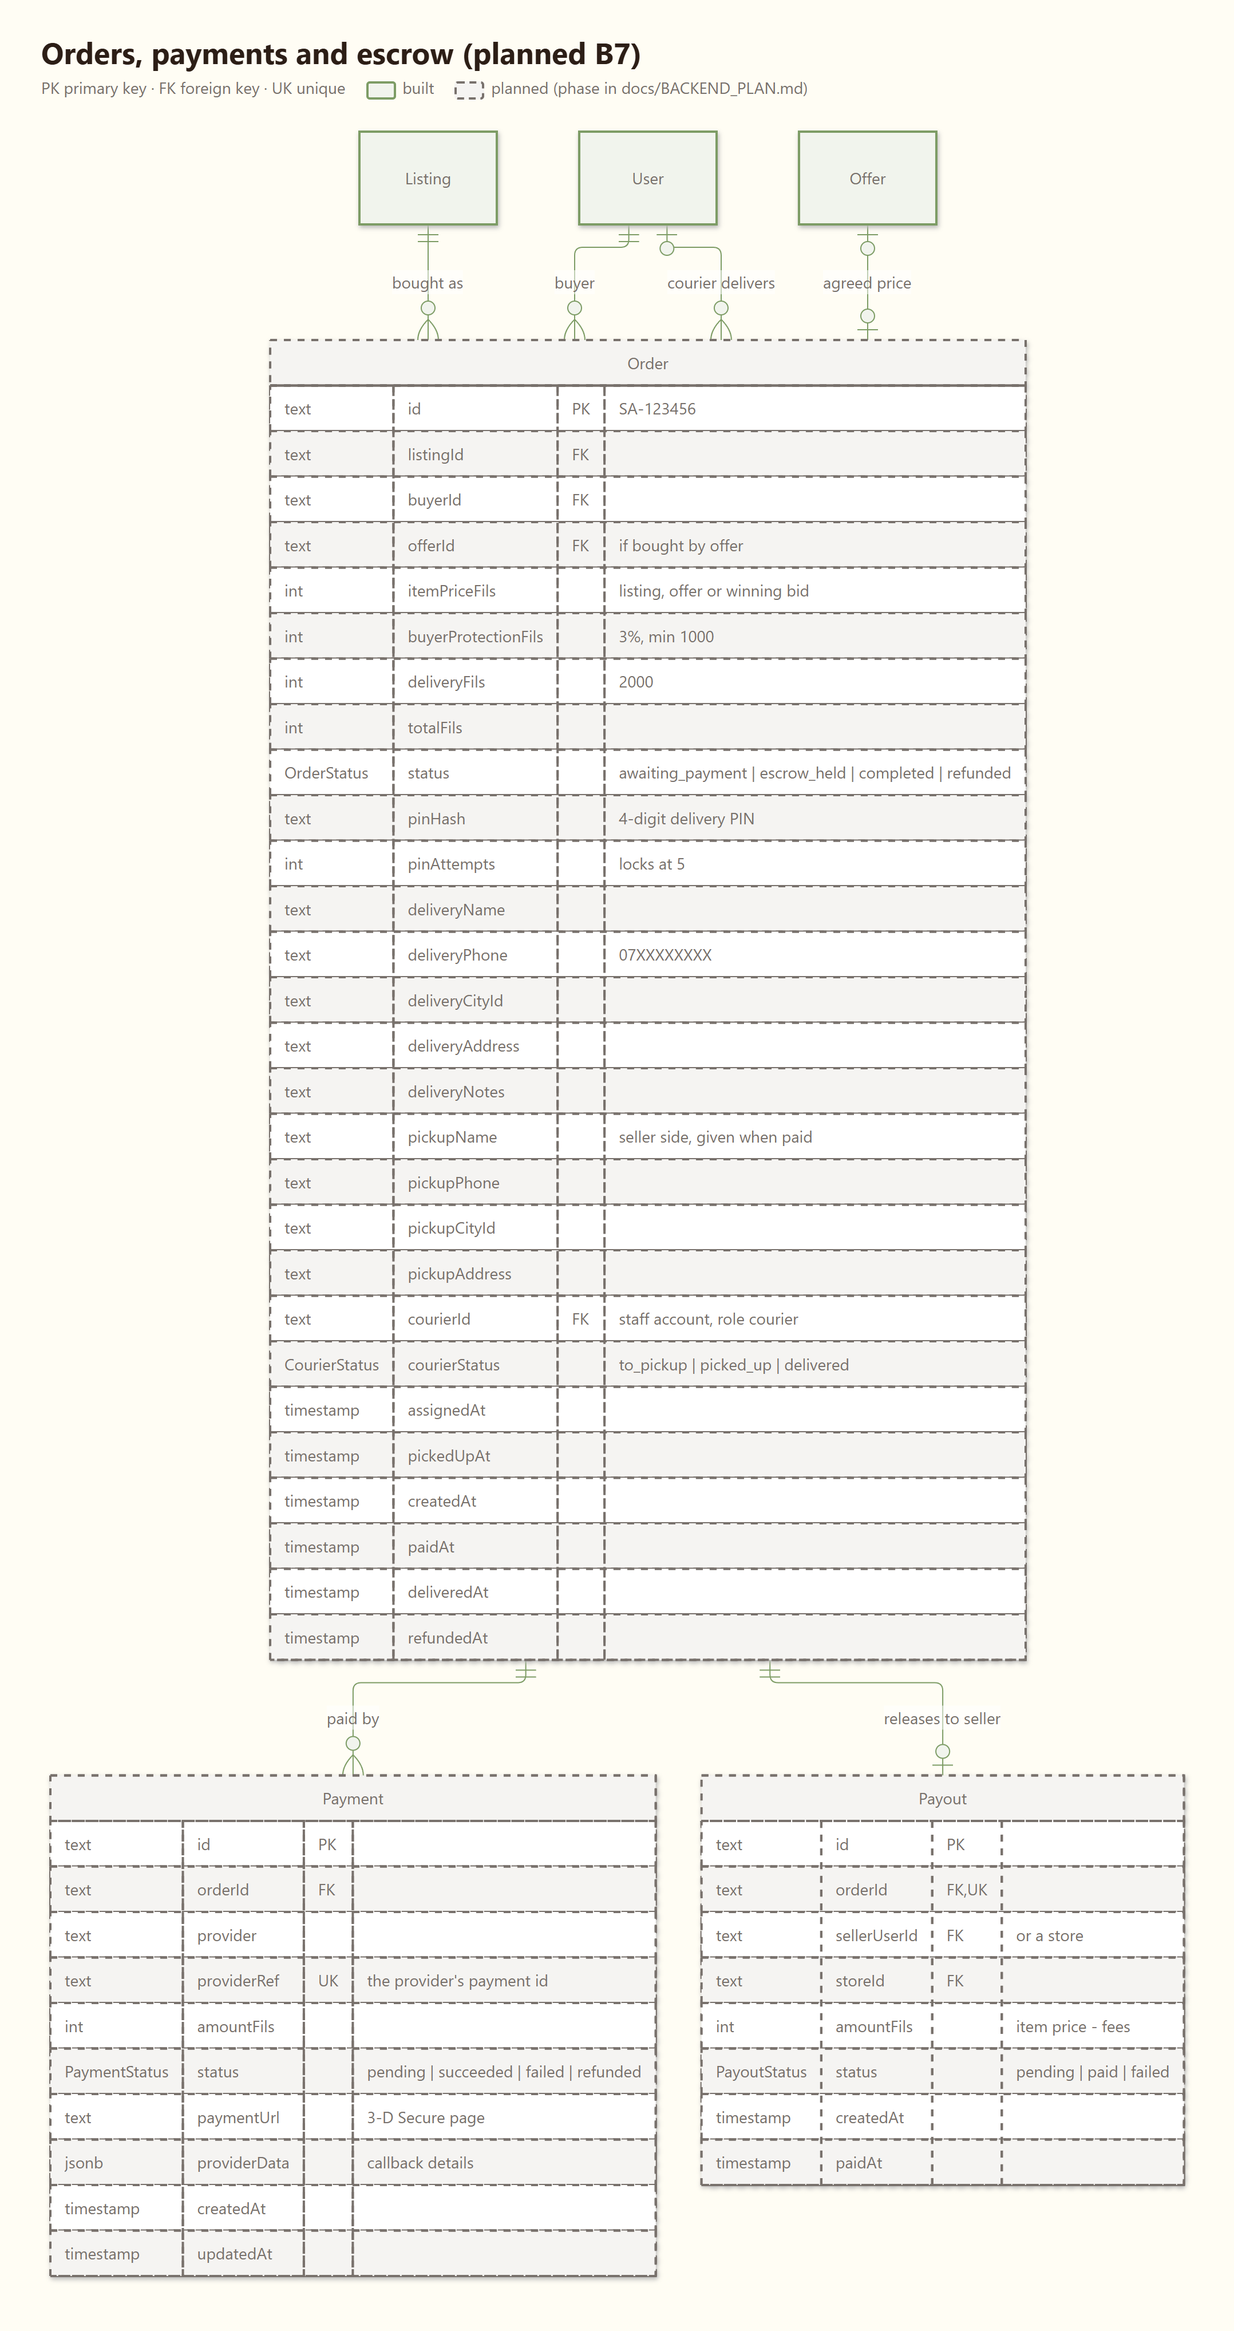
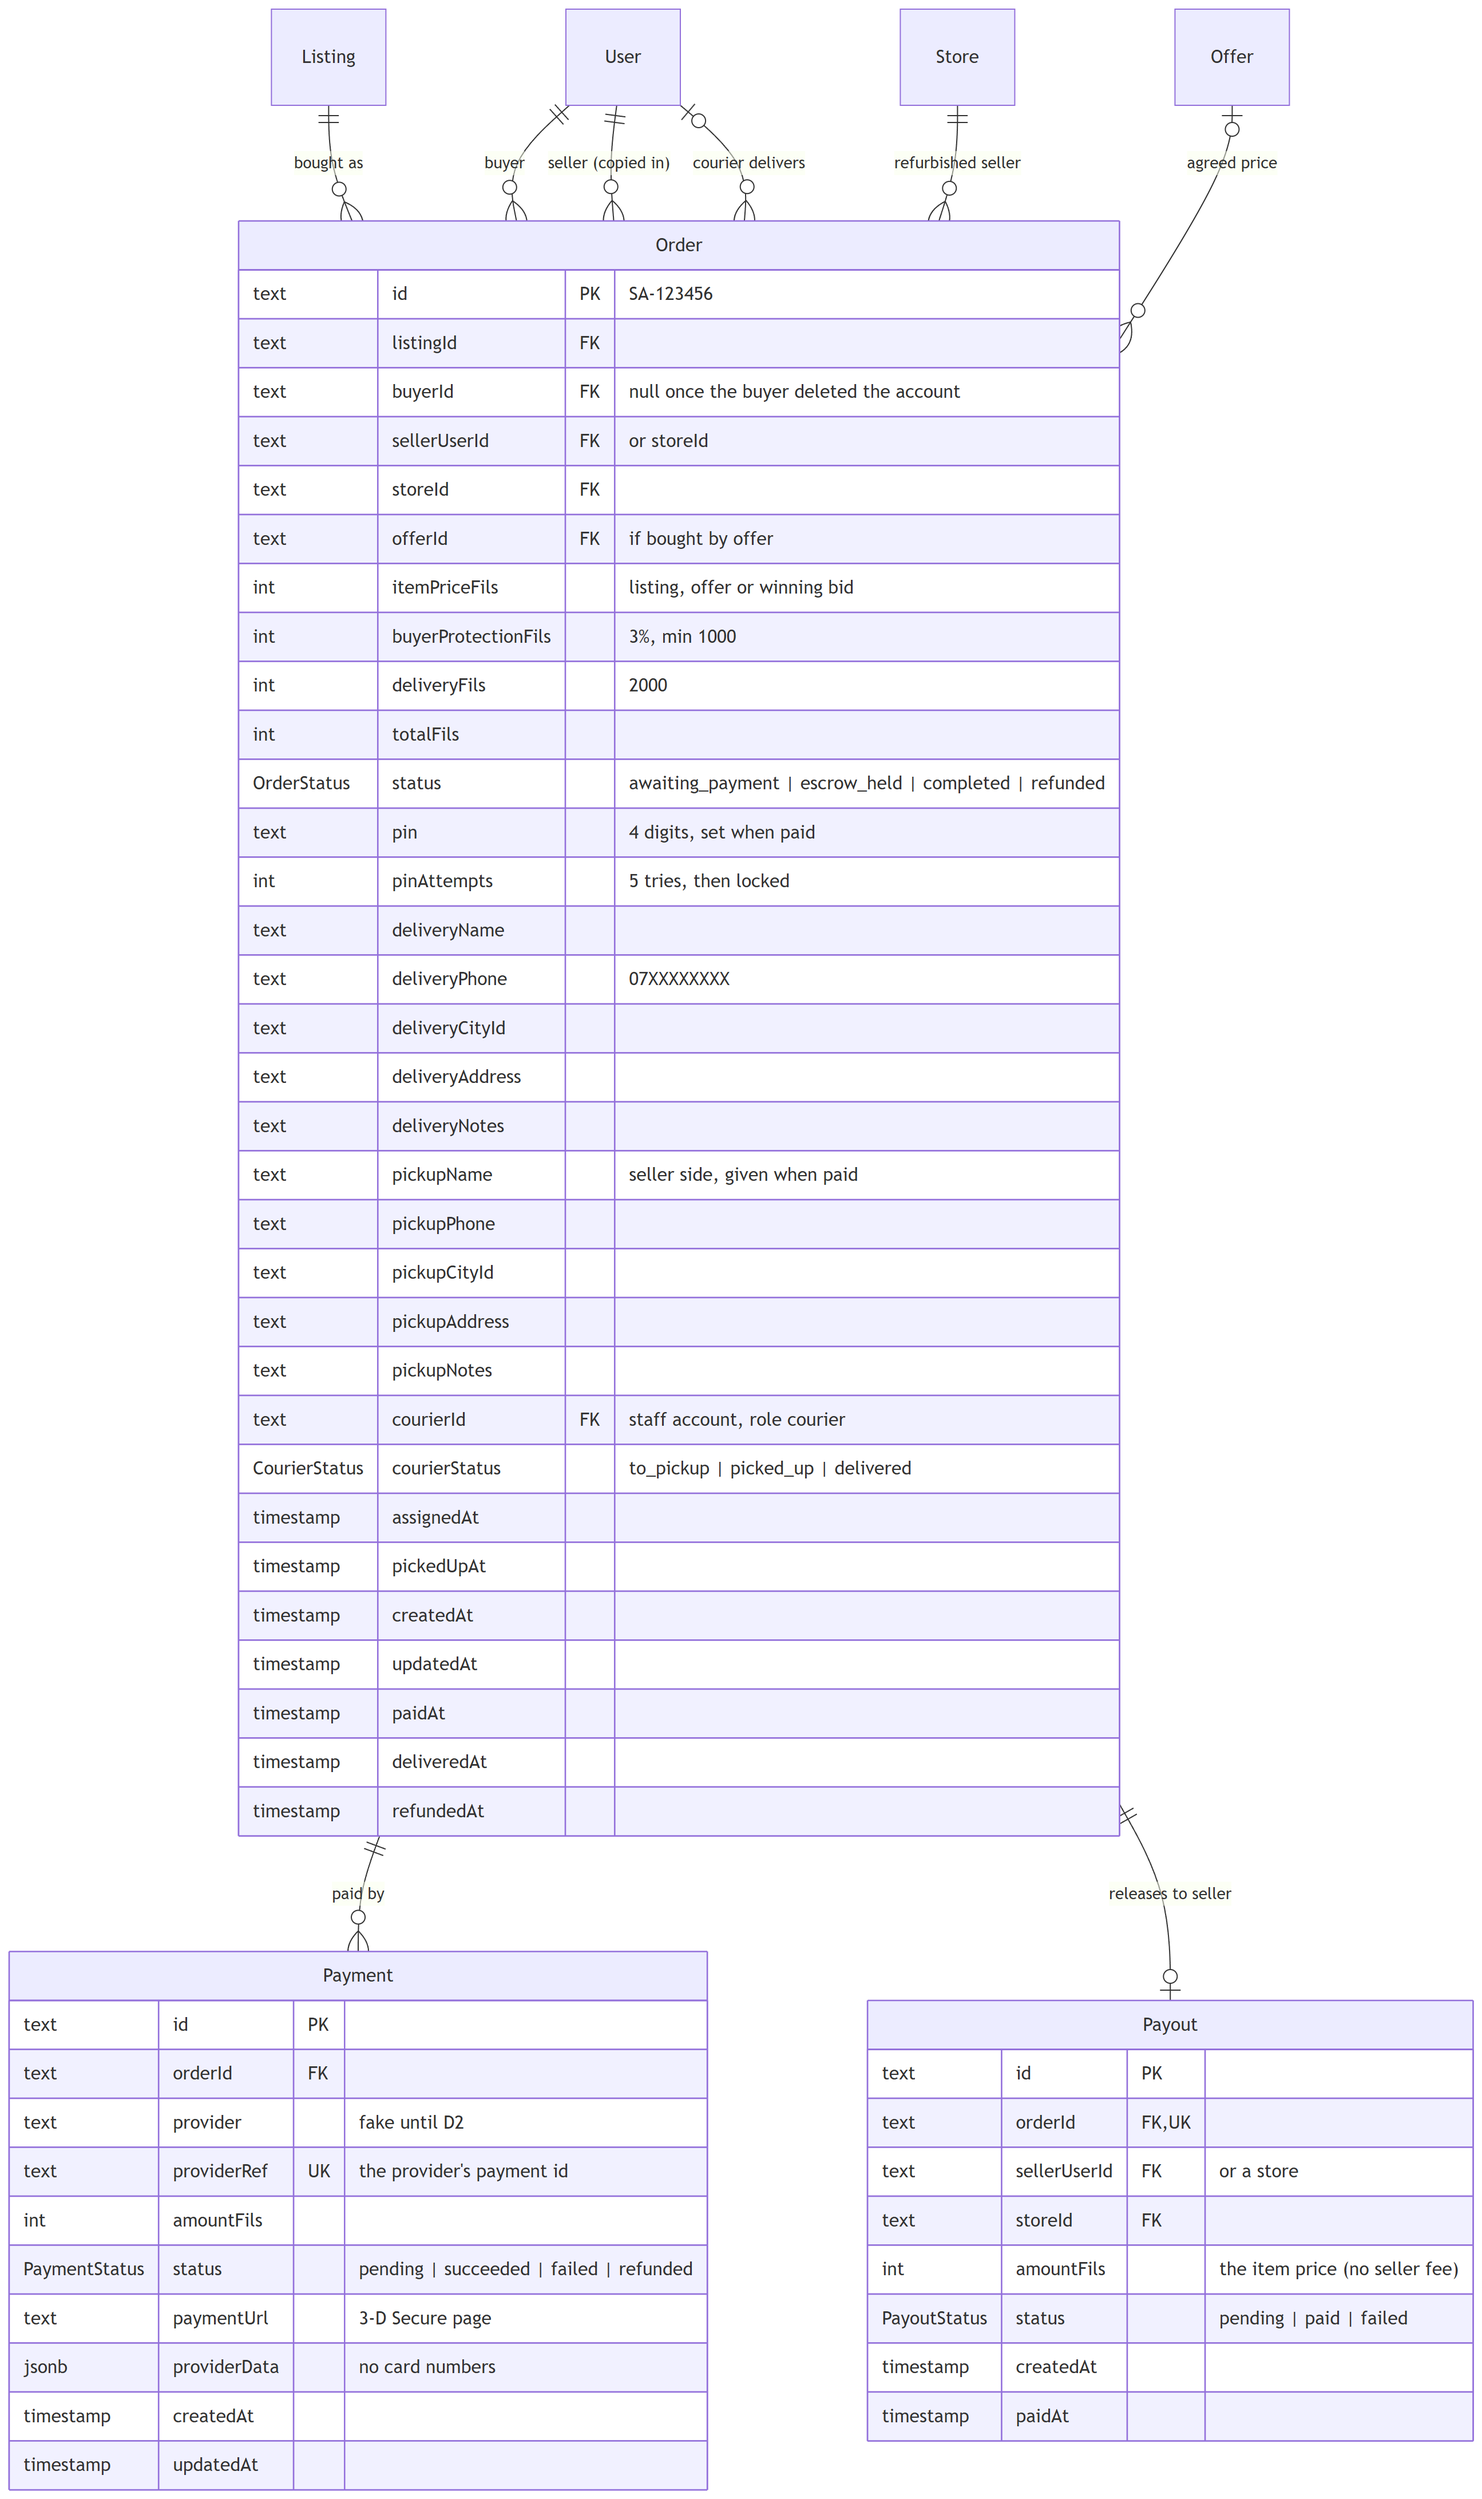
docs: database design matches B3–B9 as built
Orders, payments and payouts as built (readable PIN with the try counter,
seller and store on the order, pickup notes), the saved card as User columns
instead of a PaymentMethod table, Device built, uploads / categories / chats
no longer marked planned; diagrams re-rendered. B12.1 status in the plan.

diff --git a/docs/DATABASE.md b/docs/DATABASE.md
@@ -32,28 +32,27 @@ erDiagram
   User ||--o{ Listing : sells
   User ||--o{ TestCertificate : uploads
   User ||--o{ IdVerification : "verifies ID"
-  User ||--o{ Device : "push tokens (planned)"
-  User ||--o{ Upload : "uploads (planned)"
-  Category ||--o{ Listing : "groups (planned)"
+  User ||--o{ Device : "push tokens"
+  User ||--o{ Upload : uploads
   Store ||--o{ Listing : "sells refurbished"
   Store ||--o{ StoreApiKey : "has keys"
   Store ||--o{ RefurbishedImport : "import runs"
   TestCertificate |o--o| Listing : "proves device"
   Listing ||--o{ ListingView : "views"
-  Listing ||--o{ Chat : "about (planned)"
-  Listing ||--o{ Offer : "offers (planned)"
-  Listing ||--o{ Bid : "bids (planned)"
-  Listing ||--o{ Order : "sold by (planned)"
-  User ||--o{ Chat : "buyer (planned)"
-  Chat ||--o{ Message : "contains (planned)"
-  Chat ||--o{ Offer : "negotiates (planned)"
-  Offer |o--o{ Message : "shown in (planned)"
-  User ||--o{ Bid : "bids (planned)"
-  User ||--o{ Order : "buys (planned)"
-  Offer |o--o| Order : "agreed price (planned)"
-  Order ||--o{ Payment : "paid by (planned)"
-  Order ||--o| Payout : "releases (planned)"
-  User ||--o| PaymentMethod : "saved card (planned)"
+  Listing ||--o{ Chat : "about"
+  Listing ||--o{ Offer : "offers"
+  Listing ||--o{ Bid : "bids"
+  Listing ||--o{ Order : "sold by"
+  User ||--o{ Order : "sells / delivers"
+  User ||--o{ Chat : "buyer"
+  Chat ||--o{ Message : "contains"
+  Chat ||--o{ Offer : "negotiates"
+  Offer |o--o{ Message : "shown in"
+  User ||--o{ Bid : "bids"
+  User ||--o{ Order : "buys"
+  Offer |o--o| Order : "agreed price"
+  Order ||--o{ Payment : "paid by"
+  Order ||--o| Payout : "releases"
   User ||--o{ Report : reports
   User ||--o{ Block : blocks
   User ||--o{ AccountSignal : "risk signals"
@@ -71,8 +70,7 @@ erDiagram
 erDiagram
   User ||--o{ Session : "signs in on"
   User ||--o{ IdVerification : "verifies"
-  User ||--o{ Device : "gets push on (planned B9)"
-  User ||--o| PaymentMethod : "saved card (planned B7)"
+  User ||--o{ Device : "gets push on"
   User {
     text id PK "cuid"
     text name "2-60 chars"
@@ -82,8 +80,9 @@ erDiagram
     bool verified "Verified badge"
     text cityId "area id"
     text avatarUrl
-    text cardBrand "until PaymentMethod (B7)"
+    text cardBrand "saved card: brand"
     text cardLast4
+    text cardToken "the provider's token, never the number"
     Role role "null | courier | admin"
     bool suspended "admin only"
     timestamp createdAt
@@ -120,19 +119,11 @@ erDiagram
     timestamp decidedAt
   }
   Device {
-    text token PK "FCM / APNs token (planned B9)"
+    text token PK "FCM token"
     text userId FK
-    text platform "android | ios"
+    Platform platform "android | ios"
     timestamp createdAt
-    timestamp lastSeenAt
-  }
-  PaymentMethod {
-    text userId PK,FK "one card per user (planned B7)"
-    text provider
-    text providerToken "provider's card reference"
-    text brand
-    text last4
-    timestamp createdAt
+    timestamp updatedAt
   }
 ```
 
@@ -142,8 +133,10 @@ erDiagram
 | **Session** | ✅ B1 | One signed-in device. The JWT names the session (`sid`); deleting the row signs that device out. Log-out deletes one, password reset all. | `tokenHash` unique, `userId`, `deviceId` |
 | **EmailCode** | ✅ B1 | 6-digit codes for sign-up and password reset. Deleted once used. | `(email, purpose)` |
 | **IdVerification** | ✅ B3.5 (Sanad: B11) | One check with **Sanad** (no ID photos, no manual review). `stateHash` finds the check when Sanad answers; the national number is kept only as a keyed hash (one ID, one verified account). Approving sets `User.verified` (and `Listing.sellerVerified` on their listings). | `userId`, `nationalIdHash` |
-| **Device** | planned B9 | Push notification tokens; removed on log-out. | `userId` |
-| **PaymentMethod** | planned B7 | The saved card as the payment provider's token (never the number). Replaces `User.cardBrand/cardLast4`. | — |
+| **Device** | ✅ B9.2 | Push notification tokens. A token belongs to the account last signed in on that phone; removed on log-out and with the account. | `userId` |
+
+The saved card (B7.8) is three `User` columns, not a table: one card per account, `cardToken` being the
+payment provider's reusable token (never the card number).
 
 ---
 
@@ -160,8 +153,7 @@ erDiagram
   User ||--o{ TestCertificate : uploads
   TestCertificate |o--o| Listing : "used by one"
   Listing ||--o{ ListingView : "counted"
-  User ||--o{ Upload : "uploads (planned B3)"
-  Category ||--o{ Listing : "groups (planned B3)"
+  User ||--o{ Upload : uploads
   Listing {
     text id PK "cuid"
     text category "category id"
@@ -245,7 +237,7 @@ erDiagram
     timestamp createdAt
   }
   Category {
-    text id PK "mobiles, electronics, ... (planned B3)"
+    text id PK "mobiles, electronics, ..."
     text imageUrl "picture an admin uploaded"
     text updatedById FK "admin"
     timestamp updatedAt
@@ -256,13 +248,12 @@ erDiagram
     date day PK "once a day"
   }
   Upload {
-    text id PK "planned B3"
+    text id PK
     text userId FK
-    text kind "listing | avatar | id | certificate"
+    UploadKind kind "listing | avatar | category"
     text url
     text thumbUrl "400 px"
     int bytes
-    text mime
     timestamp usedAt "null = unused, cleaned after 24 h"
     timestamp createdAt
   }
@@ -276,8 +267,8 @@ erDiagram
 | **RefurbishedImport** | ✅ B0 | One row per import run (dashboard history). | `(storeId, createdAt)` |
 | **TestCertificate** | ✅ table, endpoint B4 | A checked photo of a shop's test report. A listing of a phone / electronics type needs a `passed` one; each is used by one listing only. | `userId`, `imageHash` |
 | **ListingView** | ✅ B2.5 | Counts a viewer once a day; `Listing.views` is the total. | primary key `(listingId, viewerKey, day)` |
-| **Category** | planned B3 | The 8 categories' pictures, changeable by an admin. Names, icons and item types stay in the shared reference files; `Listing.category` keeps its id (becomes a foreign key here). | — |
-| **Upload** | planned B3 | Every uploaded file. `POST /listings` accepts only URLs from here; unused ones are deleted after a day. | `(userId)`, `(usedAt, createdAt)` |
+| **Category** | ✅ B3.7 | Only the categories whose picture an admin changed. Names, icons and item types stay in the shared reference files; `Listing.category` is the id, not a foreign key. | — |
+| **Upload** | ✅ B3 | Every uploaded photo. `POST /listings` accepts only listing photos from here; unused ones are deleted after a day. | `userId`, `(kind, usedAt, createdAt)`, `url` unique |
 
 ---
 
@@ -342,7 +333,7 @@ erDiagram
 
 ---
 
-## 5. Orders, payments and escrow (planned B7)
+## 5. Orders, payments and escrow (✅ B7, courier part B14)
 
 ![Orders and money](database/orders.png)
 
@@ -350,22 +341,26 @@ erDiagram
 erDiagram
   Listing ||--o{ Order : "bought as"
   User ||--o{ Order : "buyer"
-  Offer |o--o| Order : "agreed price"
+  User ||--o{ Order : "seller (copied in)"
+  Store ||--o{ Order : "refurbished seller"
+  Offer |o--o{ Order : "agreed price"
   User |o--o{ Order : "courier delivers"
   Order ||--o{ Payment : "paid by"
   Order ||--o| Payout : "releases to seller"
   Order {
     text id PK "SA-123456"
     text listingId FK
-    text buyerId FK
+    text buyerId FK "null once the buyer deleted the account"
+    text sellerUserId FK "or storeId"
+    text storeId FK
     text offerId FK "if bought by offer"
     int itemPriceFils "listing, offer or winning bid"
     int buyerProtectionFils "3%, min 1000"
     int deliveryFils "2000"
     int totalFils
     OrderStatus status "awaiting_payment | escrow_held | completed | refunded"
-    text pinHash "4-digit delivery PIN"
-    int pinAttempts "locks at 5"
+    text pin "4 digits, set when paid"
+    int pinAttempts "5 tries, then locked"
     text deliveryName
     text deliveryPhone "07XXXXXXXX"
     text deliveryCityId
@@ -375,11 +370,13 @@ erDiagram
     text pickupPhone
     text pickupCityId
     text pickupAddress
+    text pickupNotes
     text courierId FK "staff account, role courier"
     CourierStatus courierStatus "to_pickup | picked_up | delivered"
     timestamp assignedAt
     timestamp pickedUpAt
     timestamp createdAt
+    timestamp updatedAt
     timestamp paidAt
     timestamp deliveredAt
     timestamp refundedAt
@@ -387,12 +384,12 @@ erDiagram
   Payment {
     text id PK
     text orderId FK
-    text provider
+    text provider "fake until D2"
     text providerRef UK "the provider's payment id"
     int amountFils
     PaymentStatus status "pending | succeeded | failed | refunded"
     text paymentUrl "3-D Secure page"
-    jsonb providerData "callback details"
+    jsonb providerData "no card numbers"
     timestamp createdAt
     timestamp updatedAt
   }
@@ -401,7 +398,7 @@ erDiagram
     text orderId FK,UK
     text sellerUserId FK "or a store"
     text storeId FK
-    int amountFils "item price - fees"
+    int amountFils "the item price (no seller fee)"
     PayoutStatus status "pending | paid | failed"
     timestamp createdAt
     timestamp paidAt
@@ -410,9 +407,9 @@ erDiagram
 
 | Table | Purpose and rules | Indexes |
 |---|---|---|
-| **Order** | The server prices every order (the app never sends amounts). Paying sets `escrow_held`, makes the PIN and reserves the listing **in one transaction**: the first payment wins. The courier's correct PIN → `completed`, listing `sold`, a `Payout` row. Delivery details are copied in, since the address book can change. The courier part (B14): an admin sets `courierId` (`to_pickup`), the courier marks `picked_up`, the PIN makes it `delivered`; pickup and drop-off are shown only to that courier. | `buyerId`, `listingId`, `status`, `courierId` |
-| **Payment** | Each attempt to pay (a failed 3-D Secure try can be retried). `providerRef` unique, so a repeated bank callback is handled once. | `orderId`, `providerRef` unique |
-| **Payout** | Money released to the seller after delivery (one per order). | `orderId` unique, `status` |
+| **Order** | The server prices every order (the app never sends amounts). One unpaid order per buyer and listing: checking out again updates it. Paying sets `escrow_held`, makes the PIN and reserves the listing **in one transaction** with the payment, order and listing rows locked: the first payment wins, a later one is refunded at once. The PIN is kept readable (the buyer opens the order to see it again; hashing 4 digits protects nothing): what protects it is `pinAttempts`, 5 tries counted *before* comparing, then locked until an admin unlocks. The right PIN → `completed`, listing `sold`, a `Payout`. Delivery details are copied in, since the address book can change. Courier part (B14): the seller gives `pickup*` once paid, an admin sets `courierId` (`to_pickup`), the courier marks `picked_up`, the PIN makes it `delivered`; pickup and drop-off are shown only to that courier, the seller sees only the buyer's name and area. | `(buyerId, createdAt)`, `(sellerUserId, createdAt)`, `(listingId, status)`, `status`, `(courierId, courierStatus)` |
+| **Payment** | Each attempt to pay (a declined card or failed 3-D Secure can be retried). `providerRef` unique, and the row is locked while settling, so a repeated bank callback is handled once. | `orderId`, `providerRef` unique |
+| **Payout** | Money released to the seller after delivery (one per order): the item price, since Sahla takes no seller fee. | `orderId` unique, `status` |
 
 ---
 
@@ -507,8 +504,8 @@ Blocks (B5) hide listings of blocked users.
 
 **Buying.** `Order` (`awaiting_payment`) → `Payment` (maybe 3-D Secure) → bank callback → `Order`
 `escrow_held` + PIN + `Listing` `reserved` (one transaction). Courier enters the PIN → `Order`
-`completed`, `Listing` `sold`, `Payout`. Refund (admin) → `Order` `refunded`, `Listing` `active`, logged in
-`AdminAction`.
+`completed`, `Listing` `sold`, `Payout`. Refund (admin) → `Order` `refunded`, `Payment` `refunded`,
+`Listing` `active` (logged in `AdminAction` once B8 adds it).
 
 **Keeping it safe.** `Report` / `Block` from users; `AccountSignal` → `RiskFlag` for admins; every admin
 decision → `AdminAction`.

diff --git a/docs/BACKEND_PLAN.md b/docs/BACKEND_PLAN.md
@@ -204,8 +204,9 @@ Tasks:
   app screen and database are ready since B3.5); register the callback URL with MoDEE; set `ID_HASH_SECRET`.
 
 ## B12 — Production and launch ⬜ (D4)
-- ⬜ **B12.1** Production settings: `trust proxy`, security headers (`helmet`), request size limits,
-  structured logs (`pino`, no passwords/tokens/coordinates), error tracking (Sentry).
+- 🔨 **B12.1** Production settings: ✅ `TRUST_PROXY`, security headers (`helmet`), request size limits,
+  structured logs (`pino`: method, path, status, time; never query strings, headers or bodies, so no
+  tokens, passwords or coordinates); ⬜ error tracking (Sentry, needs an account).
 - ⬜ **B12.2** Deploy: API + managed PostgreSQL, `prisma migrate deploy` on release, `api.sahla.jo` over HTTPS.
 - ⬜ **B12.3** Daily database backups + a tested restore.
 - ⬜ **B12.4** Monitoring: uptime check on `/v1/health`, alerts on errors and slow requests.
